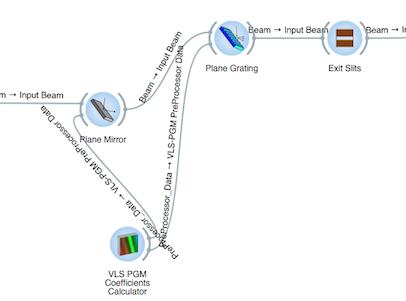
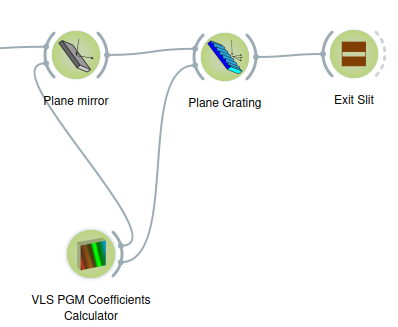
fixed VLS preprocessor; it failed for S3 workspace units not mm

diff --git a/orangecontrib/shadow4/widgets/preprocessors/vls_pgm_coefficients_calculator.py b/orangecontrib/shadow4/widgets/preprocessors/vls_pgm_coefficients_calculator.py
@@ -80,8 +80,6 @@ class OWVlsPgmCoefficientsCalculator(OWWidget):
 
 
     def __init__(self):
-        self.workspace_units_to_m = 1.0
-        self.workspace_units_label = "m"
 
         super().__init__()
 
@@ -120,12 +118,12 @@ class OWVlsPgmCoefficientsCalculator(OWWidget):
 
         box = oasysgui.widgetBox(tab_step_1, "VLS-PGM Layout Parameters", orientation="vertical")
 
-        self.le_r_a = oasysgui.lineEdit(box, self, "r_a", "Distance Source-Grating", labelWidth=260, valueType=float, orientation="horizontal")
-        self.le_r_b = oasysgui.lineEdit(box, self, "r_b", "Distance Grating-Exit Slits", labelWidth=260, valueType=float, orientation="horizontal")
-        self.le_h = oasysgui.lineEdit(box, self, "h", "Vertical Distance Mirror-Grating", labelWidth=260, valueType=float, orientation="horizontal")
-        self.le_l_e = oasysgui.lineEdit(box, self, "last_element_distance", "Distance Source-Last Image Plane\nbefore Mirror (if present)", labelWidth=260, valueType=float, orientation="horizontal")
+        oasysgui.lineEdit(box, self, "r_a", "Distance Source-Grating [m]", labelWidth=260, valueType=float, orientation="horizontal")
+        oasysgui.lineEdit(box, self, "r_b", "Distance Grating-Exit Slits [m]", labelWidth=260, valueType=float, orientation="horizontal")
+        oasysgui.lineEdit(box, self, "h", "Vertical Distance Mirror-Grating [m]", labelWidth=260, valueType=float, orientation="horizontal")
+        oasysgui.lineEdit(box, self, "last_element_distance", "Distance Source-Last Image Plane\nbefore Mirror (if present) [m]", labelWidth=260, valueType=float, orientation="horizontal")
 
-        self.le_k   = oasysgui.lineEdit(box, self, "k", "Line Density (0th coeff.)", labelWidth=260, valueType=float, orientation="horizontal")
+        oasysgui.lineEdit(box, self, "k", "Line Density (0th coeff.) [Lines/m]", labelWidth=260, valueType=float, orientation="horizontal")
 
         gui.separator(box)
 
@@ -198,19 +196,19 @@ class OWVlsPgmCoefficientsCalculator(OWWidget):
         oasysgui.lineEdit(output_box_1, self, "design_alpha", "Alpha [deg]", labelWidth=220, valueType=float, orientation="horizontal")
         oasysgui.lineEdit(output_box_1, self, "design_beta", "Beta [deg]", labelWidth=220, valueType=float, orientation="horizontal")
         gui.separator(output_box_1)
-        self.le_shadow_coeff_0 = oasysgui.lineEdit(output_box_1, self, "shadow_coeff_0", "Line Density 0-coeff.", labelWidth=220, valueType=float, orientation="horizontal")
-        self.le_shadow_coeff_1 = oasysgui.lineEdit(output_box_1, self, "shadow_coeff_1", "Line Density 1-coeff.", labelWidth=220, valueType=float, orientation="horizontal")
-        self.le_shadow_coeff_2 = oasysgui.lineEdit(output_box_1, self, "shadow_coeff_2", "Line Density 2-coeff.", labelWidth=220, valueType=float, orientation="horizontal")
-        self.le_shadow_coeff_3 = oasysgui.lineEdit(output_box_1, self, "shadow_coeff_3", "Line Density 3-coeff.", labelWidth=220, valueType=float, orientation="horizontal")
+        oasysgui.lineEdit(output_box_1, self, "shadow_coeff_0", "Line Density 0-coeff. [Lines/m]", labelWidth=220, valueType=float, orientation="horizontal")
+        oasysgui.lineEdit(output_box_1, self, "shadow_coeff_1", "Line Density 1-coeff. [Lines/m\u00b2]", labelWidth=220, valueType=float, orientation="horizontal")
+        oasysgui.lineEdit(output_box_1, self, "shadow_coeff_2", "Line Density 2-coeff. [Lines/m\u00b3]", labelWidth=220, valueType=float, orientation="horizontal")
+        oasysgui.lineEdit(output_box_1, self, "shadow_coeff_3", "Line Density 3-coeff. [Lines/m\u00b4]", labelWidth=220, valueType=float, orientation="horizontal")
 
         output_box_2 = oasysgui.widgetBox(output_box, "Ray-Tracing Ouput", addSpace=True, orientation="vertical")
 
         oasysgui.lineEdit(output_box_2, self, "raytracing_alpha", "Alpha [deg]", labelWidth=220, valueType=float, orientation="horizontal")
         oasysgui.lineEdit(output_box_2, self, "raytracing_beta", "Beta [deg]", labelWidth=220, valueType=float, orientation="horizontal")
         gui.separator(output_box_2)
-        self.le_d_source_to_mirror = oasysgui.lineEdit(output_box_2, self, "d_source_to_mirror", "Source to Mirror distance", labelWidth=230, valueType=float, orientation="horizontal")
-        self.le_d_source_plane_to_mirror = oasysgui.lineEdit(output_box_2, self, "d_source_plane_to_mirror", "Source Plane to Mirror distance", labelWidth=230, valueType=float, orientation="horizontal")
-        self.le_d_mirror_to_grating = oasysgui.lineEdit(output_box_2, self, "d_mirror_to_grating", "Mirror to Grating distance", labelWidth=230, valueType=float, orientation="horizontal")
+        oasysgui.lineEdit(output_box_2, self, "d_source_to_mirror", "Source to Mirror distance", labelWidth=230, valueType=float, orientation="horizontal")
+        oasysgui.lineEdit(output_box_2, self, "d_source_plane_to_mirror", "Source Plane to Mirror distance", labelWidth=230, valueType=float, orientation="horizontal")
+        oasysgui.lineEdit(output_box_2, self, "d_mirror_to_grating", "Mirror to Grating distance", labelWidth=230, valueType=float, orientation="horizontal")
 
 
         self.shadow_output = oasysgui.textArea()
@@ -219,30 +217,6 @@ class OWVlsPgmCoefficientsCalculator(OWWidget):
         out_box.layout().addWidget(self.shadow_output)
 
         gui.rubber(self.controlArea)
-
-    def after_change_workspace_units(self):
-        label = self.le_r_a.parent().layout().itemAt(0).widget()
-        label.setText(label.text() + " [" + self.workspace_units_label + "]")
-        label = self.le_r_b.parent().layout().itemAt(0).widget()
-        label.setText(label.text() + " [" + self.workspace_units_label + "]")
-        label = self.le_l_e.parent().layout().itemAt(0).widget()
-        label.setText(label.text() + " [" + self.workspace_units_label + "]")
-        label = self.le_k.parent().layout().itemAt(0).widget()
-        label.setText(label.text() + " [Lines/" + self.workspace_units_label + "]")
-        label = self.le_d_source_to_mirror.parent().layout().itemAt(0).widget()
-        label.setText(label.text() + " [" + self.workspace_units_label + "]")
-        label = self.le_d_source_plane_to_mirror.parent().layout().itemAt(0).widget()
-        label.setText(label.text() + " [" + self.workspace_units_label + "]")
-        label = self.le_d_mirror_to_grating.parent().layout().itemAt(0).widget()
-        label.setText(label.text() + " [" + self.workspace_units_label + "]")
-        label = self.le_shadow_coeff_0.parent().layout().itemAt(0).widget()
-        label.setText(label.text() + " [Lines." + self.workspace_units_label + "-1]")
-        label = self.le_shadow_coeff_1.parent().layout().itemAt(0).widget()
-        label.setText(label.text() + " [Lines." + self.workspace_units_label + "-2]")
-        label = self.le_shadow_coeff_2.parent().layout().itemAt(0).widget()
-        label.setText(label.text() + " [Lines." + self.workspace_units_label + "-3]")
-        label = self.le_shadow_coeff_3.parent().layout().itemAt(0).widget()
-        label.setText(label.text() + " [Lines." + self.workspace_units_label + "-4]")
 
     def set_UnitsInUse(self):
         self.autosetting_box_units_1.setVisible(self.units_in_use == 0)
@@ -267,15 +241,15 @@ class OWVlsPgmCoefficientsCalculator(OWWidget):
             m = -self.grating_diffraction_order
 
             if self.units_in_use == 0:
-                wavelength =  ShadowPhysics.getWavelengthFromEnergy(self.photon_energy)/self.workspace_units_to_m*1e-10
+                wavelength =  ShadowPhysics.getWavelengthFromEnergy(self.photon_energy) * 1e-10
             elif self.units_in_use == 1:
-                wavelength = self.photon_wavelength/self.workspace_units_to_m*1e-10
+                wavelength = self.photon_wavelength * 1e-10
 
-            sin_alpha = (-m*self.k*wavelength/(self.c**2 - 1)) + \
-                        numpy.sqrt(1 + (m*m*self.c*self.c*self.k*self.k*wavelength*wavelength)/((self.c**2 - 1)**2))
+            sin_alpha = (-m * self.k * wavelength / (self.c**2 - 1)) + \
+                        numpy.sqrt(1 + (m * m * self.c * self.c * self.k * self.k * wavelength * wavelength) / ((self.c**2 - 1)**2))
 
             alpha = numpy.arcsin(sin_alpha)
-            beta = numpy.arcsin(sin_alpha-m*self.k*wavelength)
+            beta = numpy.arcsin(sin_alpha-m * self.k * wavelength)
 
             self.design_alpha =  round(numpy.degrees(alpha), 3)
             self.design_beta = round(numpy.degrees(beta), 3)
@@ -285,24 +259,24 @@ class OWVlsPgmCoefficientsCalculator(OWWidget):
             print("# DESIGN PHASE")
             print("####################################################\n")
 
-            print("Photon Wavelength:", wavelength, self.workspace_units_label)
-            print("Design ALPHA     :", self.design_alpha, "deg")
-            print("Design BETA      :", self.design_beta, "deg")
+            print("Photon Wavelength [m]:", wavelength)
+            print("Design ALPHA [deg]    :", self.design_alpha)
+            print("Design BETA [deg]     :", self.design_beta)
 
-            self.b2 = (((numpy.cos(alpha)**2)/self.r_a) + ((numpy.cos(beta)**2)/self.r_b))/(-2*m*self.k*wavelength)
-            self.b3 = ((numpy.sin(alpha)*numpy.cos(alpha)**2)/self.r_a**2 - \
-                      (numpy.sin(beta)*numpy.cos(beta)**2)/self.r_b**2)/(-2*m*self.k*wavelength)
-            self.b4 = (((4*numpy.sin(alpha)**2 - numpy.cos(alpha)**2)*numpy.cos(alpha)**2)/self.r_a**3 + \
-                      ((4*numpy.sin(beta)**2 - numpy.cos(beta)**2)*numpy.cos(beta)**2)/self.r_b**3)/(-8*m*self.k*wavelength)
+            self.b2 = (((numpy.cos(alpha)**2) / self.r_a) + ((numpy.cos(beta)**2) / self.r_b)) / (-2 * m * self.k * wavelength)
+            self.b3 = ((numpy.sin(alpha) * numpy.cos(alpha)**2) / self.r_a**2 - \
+                      (numpy.sin(beta) * numpy.cos(beta)**2) / self.r_b**2) / (-2 * m * self.k * wavelength)
+            self.b4 = (((4 * numpy.sin(alpha)**2 - numpy.cos(alpha)**2) * numpy.cos(alpha)**2) / self.r_a**3 + \
+                      ((4 * numpy.sin(beta)**2 - numpy.cos(beta)**2) * numpy.cos(beta)**2) / self.r_b**3) / (-8 * m * self.k * wavelength)
 
             print("\nb2:", self.b2)
             print("b3:", self.b3)
             print("b4:", self.b4)
 
             self.shadow_coeff_0 = round(self.k, 8)
-            self.shadow_coeff_1 = round(-2*self.k*self.b2, 8)
-            self.shadow_coeff_2 = round(3*self.k*self.b3, 8)
-            self.shadow_coeff_3 = round(-4*self.k*self.b4, 8)
+            self.shadow_coeff_1 = round(-2 * self.k * self.b2, 8)
+            self.shadow_coeff_2 = round(3 * self.k * self.b3, 8)
+            self.shadow_coeff_3 = round(-4 * self.k * self.b4, 8)
 
             print("\nshadow_coeff_0:", self.shadow_coeff_0)
             print("shadow_coeff_1:", self.shadow_coeff_1)
@@ -315,43 +289,43 @@ class OWVlsPgmCoefficientsCalculator(OWWidget):
             #     between grating and mirror (h)
             #
 
-            gamma = (alpha + beta)/2
+            gamma = (alpha + beta) / 2
 
-            d_source_to_mirror = self.r_a - (self.h/numpy.abs(numpy.tan(numpy.pi-2*gamma)))
-            d_mirror_to_grating = self.h/numpy.abs(numpy.sin(numpy.pi-2*gamma))
+            d_source_to_mirror = self.r_a - (self.h / numpy.abs(numpy.tan(numpy.pi - 2 * gamma)))
+            d_mirror_to_grating = self.h / numpy.abs(numpy.sin(numpy.pi - 2 * gamma))
 
             r_a_first = d_source_to_mirror + d_mirror_to_grating
 
-            print("\ngamma                   :", numpy.degrees(gamma), "deg")
-            print("Source to Mirror distance :", d_source_to_mirror, self.workspace_units_label)
-            print("Mirror to Grating distance:", d_mirror_to_grating, self.workspace_units_label)
-            print("R_a'                      :", r_a_first, self.workspace_units_label)
+            print("\ngamma [deg]                 :", numpy.degrees(gamma), "deg")
+            print("Source to Mirror distance [m] :", d_source_to_mirror)
+            print("Mirror to Grating distance [m]:", d_mirror_to_grating)
+            print("R_a' [m]                      :", r_a_first)
 
             ############################################
 
             if self.new_units_in_use == 0:
-                newwavelength =  ShadowPhysics.getWavelengthFromEnergy(self.new_photon_energy)/self.workspace_units_to_m*1e-10
+                newwavelength =  ShadowPhysics.getWavelengthFromEnergy(self.new_photon_energy) * 1e-10
             elif self.new_units_in_use == 1:
-                newwavelength = self.new_photon_wavelength/self.workspace_units_to_m*1e-10
+                newwavelength = self.new_photon_wavelength * 1e-10
 
-            r = self.r_b/r_a_first
+            r = self.r_b / r_a_first
 
-            A0 = self.k*newwavelength
-            A2 = self.k*newwavelength*self.r_b*self.b2
+            A0 = self.k * newwavelength
+            A2 = self.k * newwavelength * self.r_b * self.b2
 
-            new_c_num = 2*A2 + 4*(A2/A0)**2 + \
-                        (4 + 2*A2 - A0**2)*r - \
-                        4*(A2/A0)*numpy.sqrt((1 + r)**2 + 2*A2*(1 + r) - r*A0**2)
+            new_c_num = 2 * A2 + 4 * (A2 / A0)**2 + \
+                        (4 + 2 * A2 - A0**2) * r - \
+                        4 * (A2 / A0) * numpy.sqrt((1 + r)**2 + 2 * A2 * (1 + r) - r * A0**2)
 
-            new_c_den = -4 + A0**2 - 4*A2 + 4*(A2/A0)**2
+            new_c_den = -4 + A0**2 - 4 * A2 + 4 * (A2 / A0)**2
 
-            new_c = numpy.sqrt(new_c_num/new_c_den)
+            new_c = numpy.sqrt(new_c_num / new_c_den)
 
             if self.new_c_flag == 1:
                 new_c = self.new_c_value
 
-            new_sin_alpha = (-m*self.k*newwavelength/(new_c**2 - 1)) + \
-                        numpy.sqrt(1 + (m*m*new_c*new_c*self.k*self.k*newwavelength*newwavelength)/((new_c**2 - 1)**2))
+            new_sin_alpha = (-m * self.k*newwavelength / (new_c**2 - 1)) + \
+                        numpy.sqrt(1 + (m * m * new_c * new_c * self.k * self.k * newwavelength * newwavelength) / ((new_c**2 - 1)**2))
 
             new_alpha =  numpy.arcsin(new_sin_alpha)
             new_beta  = numpy.arcsin(new_sin_alpha-m*self.k*newwavelength)
@@ -364,15 +338,16 @@ class OWVlsPgmCoefficientsCalculator(OWWidget):
             print("# RAY-TRACING PHASE")
             print("####################################################\n")
 
-            print("Ray-Tracing Wavelength:", newwavelength, self.workspace_units_label)
+            print("Ray-Tracing Wavelength [m]:", newwavelength)
+            print("Ray-Tracing Wavelength [A]:", newwavelength * 1e10)
             print("Ray-Tracing C         :", new_c)
             print("Ray-Tracing ALPHA     :", self.raytracing_alpha, "deg")
             print("Ray-Tracing BETA      :", self.raytracing_beta, "deg")
 
             gamma = (new_alpha + new_beta)/2
 
-            self.d_source_to_mirror  = self.r_a - (self.h/numpy.abs(numpy.tan(numpy.pi-2*gamma)))
-            self.d_mirror_to_grating = self.h/numpy.abs(numpy.sin(numpy.pi-2*gamma))
+            self.d_source_to_mirror  = self.r_a - (self.h / numpy.abs(numpy.tan(numpy.pi - 2 * gamma)))
+            self.d_mirror_to_grating = self.h / numpy.abs(numpy.sin(numpy.pi - 2 * gamma))
 
             r_a_first = self.d_source_to_mirror + self.d_mirror_to_grating
 
@@ -380,11 +355,11 @@ class OWVlsPgmCoefficientsCalculator(OWWidget):
             self.d_source_plane_to_mirror = round(self.d_source_to_mirror - self.last_element_distance, 3)
             self.d_mirror_to_grating = round(self.d_mirror_to_grating, 3)
 
-            print("\ngamma                         :", numpy.degrees(gamma), "deg")
-            print("Source to Mirror distance       :", self.d_source_to_mirror, self.workspace_units_label)
-            print("Source Plane to Mirror distance :", self.d_source_plane_to_mirror, self.workspace_units_label)
-            print("Mirror to Grating distance      :", self.d_mirror_to_grating, self.workspace_units_label)
-            print("R_a'                            :", r_a_first, self.workspace_units_label)
+            print("\ngamma [deg]                       :", numpy.degrees(gamma))
+            print("Source to Mirror distance [m]       :", self.d_source_to_mirror)
+            print("Source Plane to Mirror distance [m] :", self.d_source_plane_to_mirror)
+            print("Mirror to Grating distance [m]      :", self.d_mirror_to_grating)
+            print("R_a' [m]                            :", r_a_first)
 
             self.send("VLS-PGM PreProcessor Data", VlsPgmPreProcessorData(shadow_coeff_0 = self.shadow_coeff_0,
                                                                   shadow_coeff_1 = self.shadow_coeff_1,
@@ -427,8 +402,6 @@ class OWVlsPgmCoefficientsCalculator(OWWidget):
 if __name__ == "__main__":
     app = QApplication(sys.argv)
     w = OWVlsPgmCoefficientsCalculator()
-    # w.workspace_units_to_m = 1.0
-    # w.workspace_units_label = "m"
     w.show()
     app.exec()
     w.saveSettings()

diff --git a/orangecontrib/shadow4/widgets/optics/ow_grating.py b/orangecontrib/shadow4/widgets/optics/ow_grating.py
@@ -297,8 +297,8 @@ class _OWGrating(OWOpticalElementWithSurfaceShape):
             self.surface_shape_type = 0
             self.surface_shape_tab_visibility()
 
-            self.source_plane_distance = data.d_mirror_to_grating/2 * 1e-3
-            self.image_plane_distance = data.d_grating_to_exit_slits * 1e-3
+            self.source_plane_distance = data.d_mirror_to_grating/2
+            self.image_plane_distance = data.d_grating_to_exit_slits
 
             self.angles_respect_to = 0
             self.incidence_angle_deg = data.alpha
@@ -310,10 +310,10 @@ class _OWGrating(OWOpticalElementWithSurfaceShape):
             self.order = -1
 
             self.f_ruling = 1
-            self.ruling = data.shadow_coeff_0 * 1e3
-            self.ruling_coeff_linear = data.shadow_coeff_1 * 1e6
-            self.ruling_coeff_quadratic = data.shadow_coeff_2 * 1e9
-            self.ruling_coeff_cubic = data.shadow_coeff_3 * 1e12
+            self.ruling = data.shadow_coeff_0
+            self.ruling_coeff_linear = data.shadow_coeff_1
+            self.ruling_coeff_quadratic = data.shadow_coeff_2
+            self.ruling_coeff_cubic = data.shadow_coeff_3
             self.ruling_coeff_quartic = 0.0
             self.grating_diffraction_tab_visibility()
 

diff --git a/orangecontrib/shadow4/widgets/optics/ow_mirror.py b/orangecontrib/shadow4/widgets/optics/ow_mirror.py
@@ -165,8 +165,8 @@ class _OWMirror(OWOpticalElementWithSurfaceShape):
             self.surface_shape_type = 0
             self.surface_shape_tab_visibility()
 
-            self.source_plane_distance = data.d_source_plane_to_mirror * 1e-3
-            self.image_plane_distance =  data.d_mirror_to_grating/2 * 1e-3
+            self.source_plane_distance = data.d_source_plane_to_mirror
+            self.image_plane_distance =  data.d_mirror_to_grating/2
             self.angles_respect_to = 0
             self.incidence_angle_deg  = (data.alpha + data.beta)/2
             self.reflection_angle_deg = (data.alpha + data.beta)/2
